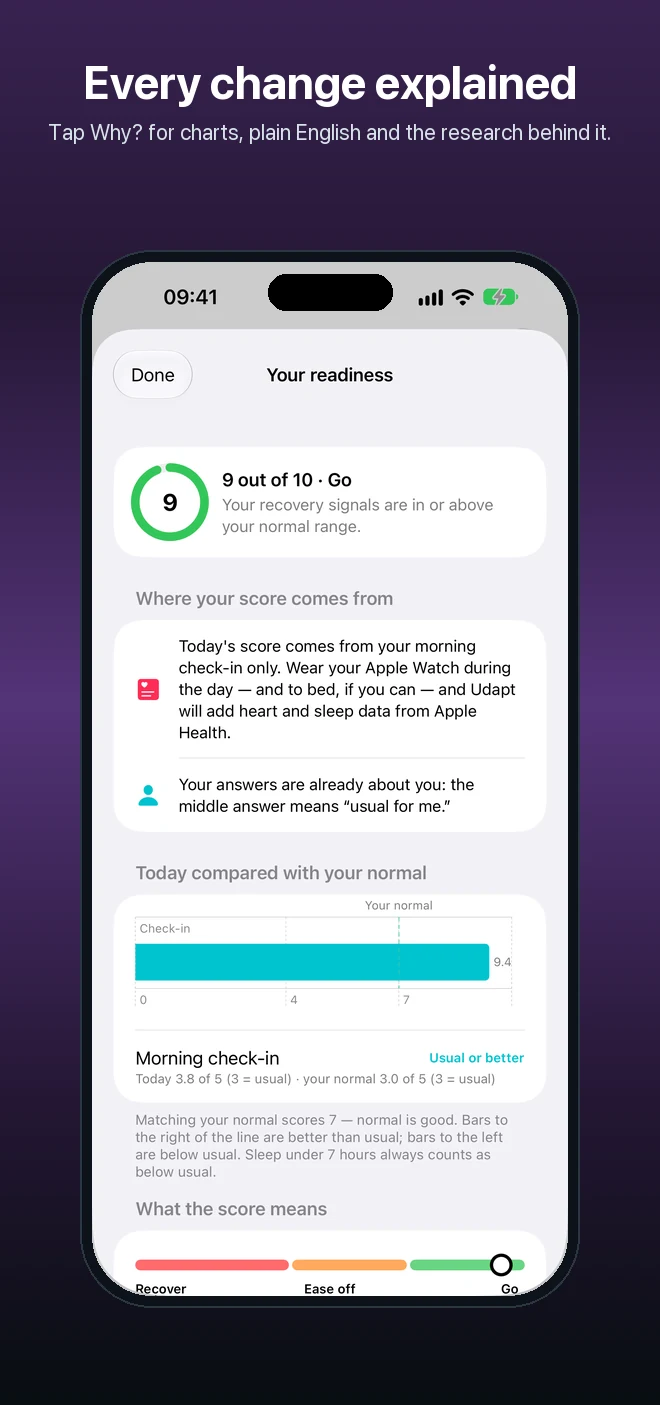
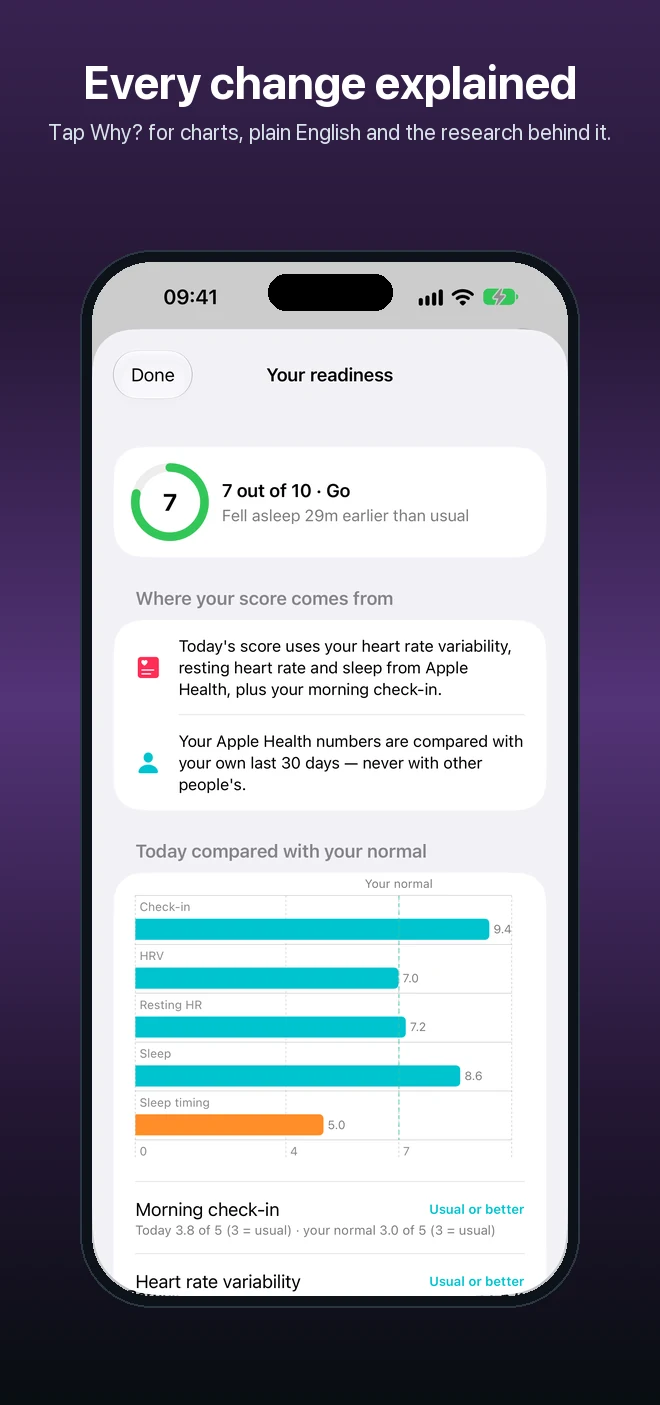
Marketing images show a connected user (build 1.0.0 (13))
All app images retaken with sample Apple Health data: the readiness card
and Why? screen show every signal, and there's no "Connect Apple Health"
card. Alt text updated to the new score (7, Go).

Changed region(s): [[0.1818, 0.4591, 0.7879, 0.9181], [0.3333, 0.3367, 0.7273, 0.3979], [0.2121, 0.306, 0.2727, 0.3673]]

diff --git a/index.html b/index.html
@@ -51,7 +51,7 @@
     </ul>
   </div>
   <div class="hero-art" aria-hidden="false">
-    <div class="phone p1"><img src="images/flat-today.webp" width="600" height="1260" alt="Udapt Today screen: readiness score 9, Go, and today's Full body A session with progressed weights" decoding="async"></div>
+    <div class="phone p1"><img src="images/flat-today.webp" width="600" height="1260" alt="Udapt Today screen: readiness score 7, Go, and today's Full body A session with progressed weights" decoding="async"></div>
     <div class="phone p2"><img src="images/flat-workout.webp" width="600" height="1260" alt="Udapt workout screen with progressed weights for today's session" decoding="async"></div>
   </div>
 </div></section>
@@ -60,14 +60,14 @@
   <div class="sec-head center rv" style="text-align:center"><span class="eyebrow">A closer look</span>
     <h2>Built around your daily plan.</h2>
     <p>Readiness, training and food targets, how you log food and protect a joint, and the Why? screens that explain every change. Swipe through.</p></div></div>
-  <div class="panels" role="group" aria-label="Udapt features"><img src="images/01-ready-in-one-glance.webp" width="660" height="1405" alt="Ready in one glance: readiness score 9, Go, with today's Full body A session" loading="lazy" decoding="async"><img src="images/02-training-that-adapts.webp" width="660" height="1405" alt="Training that adapts: today's sets with weights worked out from your last session" loading="lazy" decoding="async"><img src="images/03-food-that-moves-with-you.webp" width="660" height="1405" alt="Food that moves with you: the Today food card on a training day, showing calories and protein, carbs and fat eaten against today's targets" loading="lazy" decoding="async"><img src="images/04-log-food-your-way.webp" width="660" height="1405" alt="Log food your way: search, scan a barcode, or just say what you ate" loading="lazy" decoding="async"><img src="images/05-train-around-an-injury.webp" width="660" height="1405" alt="Train around an injury: protect a joint and Udapt swaps out the risky exercises" loading="lazy" decoding="async"><img src="images/06-home-or-gym.webp" width="660" height="1405" alt="Home or gym, your call: full programs either way" loading="lazy" decoding="async"><img src="images/07-every-change-explained.webp" width="660" height="1405" alt="Every change explained: the readiness Why? screen with a chart comparing today with your normal" loading="lazy" decoding="async"></div>
+  <div class="panels" role="group" aria-label="Udapt features"><img src="images/01-ready-in-one-glance.webp" width="660" height="1405" alt="Ready in one glance: readiness score 7, Go, with today's Full body A session" loading="lazy" decoding="async"><img src="images/02-training-that-adapts.webp" width="660" height="1405" alt="Training that adapts: today's sets with weights worked out from your last session" loading="lazy" decoding="async"><img src="images/03-food-that-moves-with-you.webp" width="660" height="1405" alt="Food that moves with you: the Today food card on a training day, showing calories and protein, carbs and fat eaten against today's targets" loading="lazy" decoding="async"><img src="images/04-log-food-your-way.webp" width="660" height="1405" alt="Log food your way: search, scan a barcode, or just say what you ate" loading="lazy" decoding="async"><img src="images/05-train-around-an-injury.webp" width="660" height="1405" alt="Train around an injury: protect a joint and Udapt swaps out the risky exercises" loading="lazy" decoding="async"><img src="images/06-home-or-gym.webp" width="660" height="1405" alt="Home or gym, your call: full programs either way" loading="lazy" decoding="async"><img src="images/07-every-change-explained.webp" width="660" height="1405" alt="Every change explained: the readiness Why? screen with a chart comparing today with your normal" loading="lazy" decoding="async"></div>
 </section>
 
 <section id="features"><div class="wrap">
   <div class="sec-head rv"><span class="eyebrow">Features</span>
     <h2>Everything for your routine. Nothing you don&rsquo;t need.</h2>
     <p>Udapt is built around how a plan actually needs to change day to day: how you slept, how the last session went, and what you've eaten. Every adjustment comes with a reason, never just a new number.</p></div>
-  <div class="features"><article class="card f-a rv"><div class="feature-lg"><div><div class="ico" style="--c:linear-gradient(135deg,#159b9a,#2f6fed)"><svg viewBox="0 0 24 24" aria-hidden="true"><path d="M19 14c1.49-1.46 3-3.21 3-5.5A5.5 5.5 0 0 0 16.5 3c-1.76 0-3 .5-4.5 2-1.5-1.5-2.74-2-4.5-2A5.5 5.5 0 0 0 2 8.5c0 2.3 1.5 4.05 3 5.5l7 7Z"/></svg></div><h3>A readiness score you can understand</h3><p>A score out of 10 each morning, built from your own Apple Health data &mdash; how your heart and sleep compare with <i>your</i> normal &mdash; plus a 5-question check-in. No Watch at night? The check-in alone works. Tap <b>Why?</b> for charts and the research behind it.</p></div><div class="mini"><div class="phone"><img src="images/flat-today.webp" width="600" height="1260" alt="Udapt readiness score of 9, Go" loading="lazy" decoding="async"></div></div></div></article><article class="card f-b rv"><div class="feature-lg"><div><div class="ico" style="--c:linear-gradient(135deg,#2f6fed,#159b9a)"><svg viewBox="0 0 24 24" aria-hidden="true"><path d="M6.5 6.5 4 4M6.5 17.5 4 20M17.5 6.5 20 4M17.5 17.5 20 20"/><rect x="7" y="7" width="10" height="10" rx="2"/></svg></div><h3>Workouts that ease off when you need it</h3><p>After a rough night, Udapt drops a few sets and asks you to stop each set with a few reps to spare. On good days your weights go up. Prefer the original workout? It&rsquo;s always one tap away.</p></div><div class="mini"><div class="phone"><img src="images/flat-workout.webp" width="600" height="1260" alt="Udapt workout screen with progressed weights" loading="lazy" decoding="async"></div></div></div></article><article class="card f-c rv"><div><div class="ico" style="--c:#f59a3c"><svg viewBox="0 0 24 24" aria-hidden="true"><path d="M18 8h1a4 4 0 0 1 0 8h-1M2 8h16v9a4 4 0 0 1-4 4H6a4 4 0 0 1-4-4V8z"/><path d="M6 1v3M10 1v3M14 1v3"/></svg></div><h3>Food targets that move with training</h3><p>More carbs on training days, a little less on rest days &mdash; the week's total stays the same. After a month of daily weigh-ins and food logs, your target adapts to what your body actually does. Tap <b>Why?</b> to see how it's built.</p></div></article><article class="card f-c rv"><div><div class="ico" style="--c:#0fb5c9"><svg viewBox="0 0 24 24" aria-hidden="true"><rect x="3" y="11" width="18" height="10" rx="2"/><circle cx="12" cy="5" r="2"/><path d="M12 7v4"/></svg></div><h3>Log food your way</h3><p>Search thousands of foods, scan a barcode, or snap a photo or say what you ate &mdash; Apple Intelligence works it out on your phone, and nothing is sent anywhere.</p></div></article><article class="card f-c rv"><div><div class="ico" style="--c:#2f6fed"><svg viewBox="0 0 24 24" aria-hidden="true"><path d="M14.5 4h-5L7 7H4a2 2 0 0 0-2 2v9a2 2 0 0 0 2 2h16a2 2 0 0 0 2-2V9a2 2 0 0 0-2-2h-3z"/><circle cx="12" cy="13" r="3"/></svg></div><h3>Protect a joint</h3><p>Flag a shoulder, knee or lower back you're being careful with, and Udapt automatically swaps exercises that load it for a like-for-like alternative that doesn't.</p></div></article><article class="card f-c rv"><div><div class="ico" style="--c:#159b9a"><svg viewBox="0 0 24 24" aria-hidden="true"><path d="M6 22V12M18 22V8M12 22V4"/></svg></div><h3>Home or gym</h3><p>Full programs for a commercial gym, or a dumbbells-and-bodyweight-only variant for training at home. Switch any time.</p></div></article><article class="card f-c rv"><div><div class="ico" style="--c:#34c759"><svg viewBox="0 0 24 24" aria-hidden="true"><path d="M12 2a3 3 0 0 0-3 3v6a3 3 0 0 0 6 0V5a3 3 0 0 0-3-3Z"/><path d="M19 10v1a7 7 0 0 1-14 0v-1M12 18v4M9 22h6"/></svg></div><h3>Ask Siri</h3><p>&ldquo;How ready am I?&rdquo; or &ldquo;Log my usual breakfast&rdquo; &mdash; hands-free, from your phone or your wrist.</p></div></article><article class="card f-c rv"><div><div class="ico" style="--c:#0f8c78"><svg viewBox="0 0 24 24" aria-hidden="true"><rect x="4" y="11" width="16" height="10" rx="3"/><path d="M8 11V7a4 4 0 0 1 8 0v4"/></svg></div><h3>Private by design</h3><p>No ads, no third-party analytics. Health data stays in Apple Health; anything Udapt-only stays on your phone.</p></div></article></div>
+  <div class="features"><article class="card f-a rv"><div class="feature-lg"><div><div class="ico" style="--c:linear-gradient(135deg,#159b9a,#2f6fed)"><svg viewBox="0 0 24 24" aria-hidden="true"><path d="M19 14c1.49-1.46 3-3.21 3-5.5A5.5 5.5 0 0 0 16.5 3c-1.76 0-3 .5-4.5 2-1.5-1.5-2.74-2-4.5-2A5.5 5.5 0 0 0 2 8.5c0 2.3 1.5 4.05 3 5.5l7 7Z"/></svg></div><h3>A readiness score you can understand</h3><p>A score out of 10 each morning, built from your own Apple Health data &mdash; how your heart and sleep compare with <i>your</i> normal &mdash; plus a 5-question check-in. No Watch at night? The check-in alone works. Tap <b>Why?</b> for charts and the research behind it.</p></div><div class="mini"><div class="phone"><img src="images/flat-today.webp" width="600" height="1260" alt="Udapt readiness score of 7, Go" loading="lazy" decoding="async"></div></div></div></article><article class="card f-b rv"><div class="feature-lg"><div><div class="ico" style="--c:linear-gradient(135deg,#2f6fed,#159b9a)"><svg viewBox="0 0 24 24" aria-hidden="true"><path d="M6.5 6.5 4 4M6.5 17.5 4 20M17.5 6.5 20 4M17.5 17.5 20 20"/><rect x="7" y="7" width="10" height="10" rx="2"/></svg></div><h3>Workouts that ease off when you need it</h3><p>After a rough night, Udapt drops a few sets and asks you to stop each set with a few reps to spare. On good days your weights go up. Prefer the original workout? It&rsquo;s always one tap away.</p></div><div class="mini"><div class="phone"><img src="images/flat-workout.webp" width="600" height="1260" alt="Udapt workout screen with progressed weights" loading="lazy" decoding="async"></div></div></div></article><article class="card f-c rv"><div><div class="ico" style="--c:#f59a3c"><svg viewBox="0 0 24 24" aria-hidden="true"><path d="M18 8h1a4 4 0 0 1 0 8h-1M2 8h16v9a4 4 0 0 1-4 4H6a4 4 0 0 1-4-4V8z"/><path d="M6 1v3M10 1v3M14 1v3"/></svg></div><h3>Food targets that move with training</h3><p>More carbs on training days, a little less on rest days &mdash; the week's total stays the same. After a month of daily weigh-ins and food logs, your target adapts to what your body actually does. Tap <b>Why?</b> to see how it's built.</p></div></article><article class="card f-c rv"><div><div class="ico" style="--c:#0fb5c9"><svg viewBox="0 0 24 24" aria-hidden="true"><rect x="3" y="11" width="18" height="10" rx="2"/><circle cx="12" cy="5" r="2"/><path d="M12 7v4"/></svg></div><h3>Log food your way</h3><p>Search thousands of foods, scan a barcode, or snap a photo or say what you ate &mdash; Apple Intelligence works it out on your phone, and nothing is sent anywhere.</p></div></article><article class="card f-c rv"><div><div class="ico" style="--c:#2f6fed"><svg viewBox="0 0 24 24" aria-hidden="true"><path d="M14.5 4h-5L7 7H4a2 2 0 0 0-2 2v9a2 2 0 0 0 2 2h16a2 2 0 0 0 2-2V9a2 2 0 0 0-2-2h-3z"/><circle cx="12" cy="13" r="3"/></svg></div><h3>Protect a joint</h3><p>Flag a shoulder, knee or lower back you're being careful with, and Udapt automatically swaps exercises that load it for a like-for-like alternative that doesn't.</p></div></article><article class="card f-c rv"><div><div class="ico" style="--c:#159b9a"><svg viewBox="0 0 24 24" aria-hidden="true"><path d="M6 22V12M18 22V8M12 22V4"/></svg></div><h3>Home or gym</h3><p>Full programs for a commercial gym, or a dumbbells-and-bodyweight-only variant for training at home. Switch any time.</p></div></article><article class="card f-c rv"><div><div class="ico" style="--c:#34c759"><svg viewBox="0 0 24 24" aria-hidden="true"><path d="M12 2a3 3 0 0 0-3 3v6a3 3 0 0 0 6 0V5a3 3 0 0 0-3-3Z"/><path d="M19 10v1a7 7 0 0 1-14 0v-1M12 18v4M9 22h6"/></svg></div><h3>Ask Siri</h3><p>&ldquo;How ready am I?&rdquo; or &ldquo;Log my usual breakfast&rdquo; &mdash; hands-free, from your phone or your wrist.</p></div></article><article class="card f-c rv"><div><div class="ico" style="--c:#0f8c78"><svg viewBox="0 0 24 24" aria-hidden="true"><rect x="4" y="11" width="16" height="10" rx="3"/><path d="M8 11V7a4 4 0 0 1 8 0v4"/></svg></div><h3>Private by design</h3><p>No ads, no third-party analytics. Health data stays in Apple Health; anything Udapt-only stays on your phone.</p></div></article></div>
 </div></section>
 
 <section id="research"><div class="wrap">
